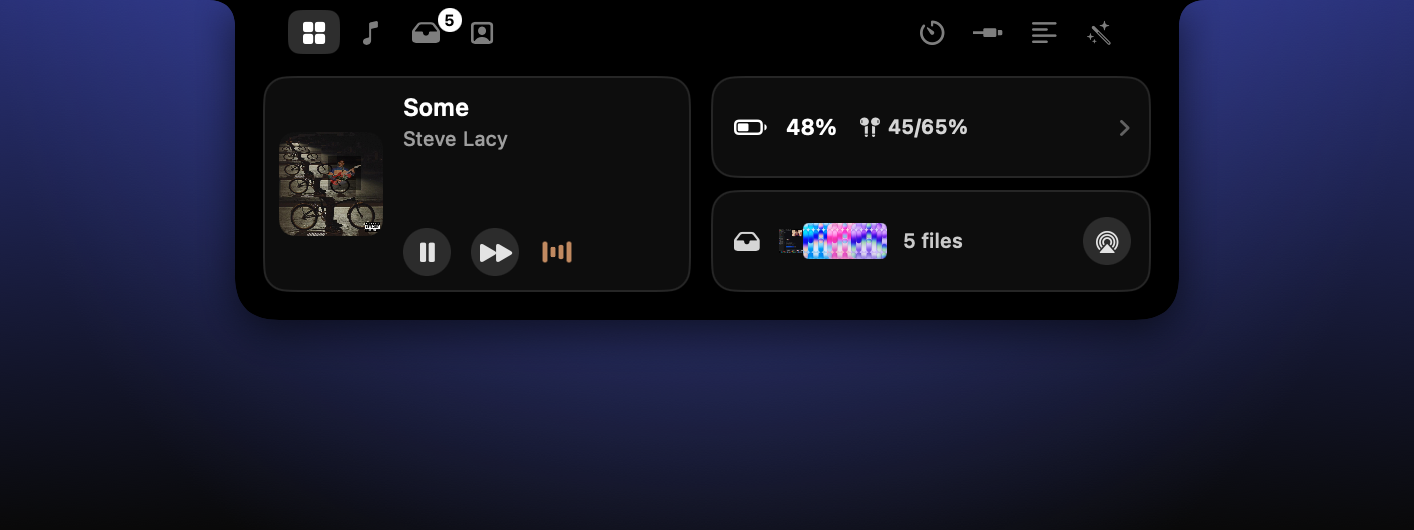
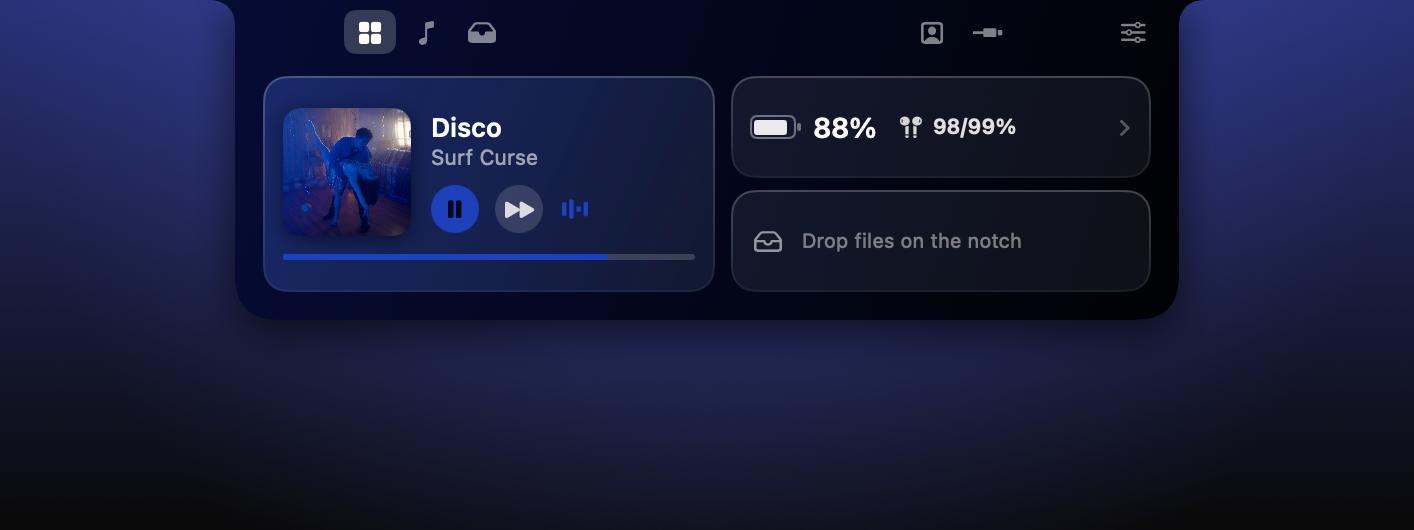
README: album colour now covers the whole panel; refresh those screenshots

diff --git a/README.md b/README.md
@@ -66,9 +66,10 @@ Devices, Teleprompter, Image tools, Mirror. Only the ones you switch on appear,
 so the notch stays as small as you need. Change your mind any time: the **sliders button** at the
 right of the tab strip, or the menu bar icon → **Choose Tabs…**
 
-The same panel also has an **Album colour** switch — the music card and tab
-take a wash of the current artwork's dominant colour; turn it off for plain
-dark surfaces. And an **animation speed** control — Fast, Normal or Relaxed —
+The same panel also has an **Album colour** switch — the whole notch takes a
+wash of the current artwork's dominant colour, tabs and all, and the controls
+follow it; turn it off for plain dark surfaces. And an **animation speed**
+control — Fast, Normal or Relaxed —
 if the notch feels too eager or too sluggish. It also follows macOS
 **Accessibility → Display → Reduce Motion**, fading instead of springing when
 that's on.
@@ -111,8 +112,9 @@ macOS may ask once more to let Notch control Spotify after an update — click
 
 Shows whatever Spotify is playing. Click the bar to jump around in the song,
 shuffle / repeat, Spotify's own volume slider, click the album art to open
-Spotify. While closed, the pill
-shows the album art and an equalizer in the album's colour — hidden when paused.
+Spotify. The whole panel takes a wash of the artwork's dominant colour, which
+cross-fades as tracks change. While closed, the pill shows the album art and an
+equalizer in that colour — hidden when paused.
 
 ### 🗂 Shelf
 
